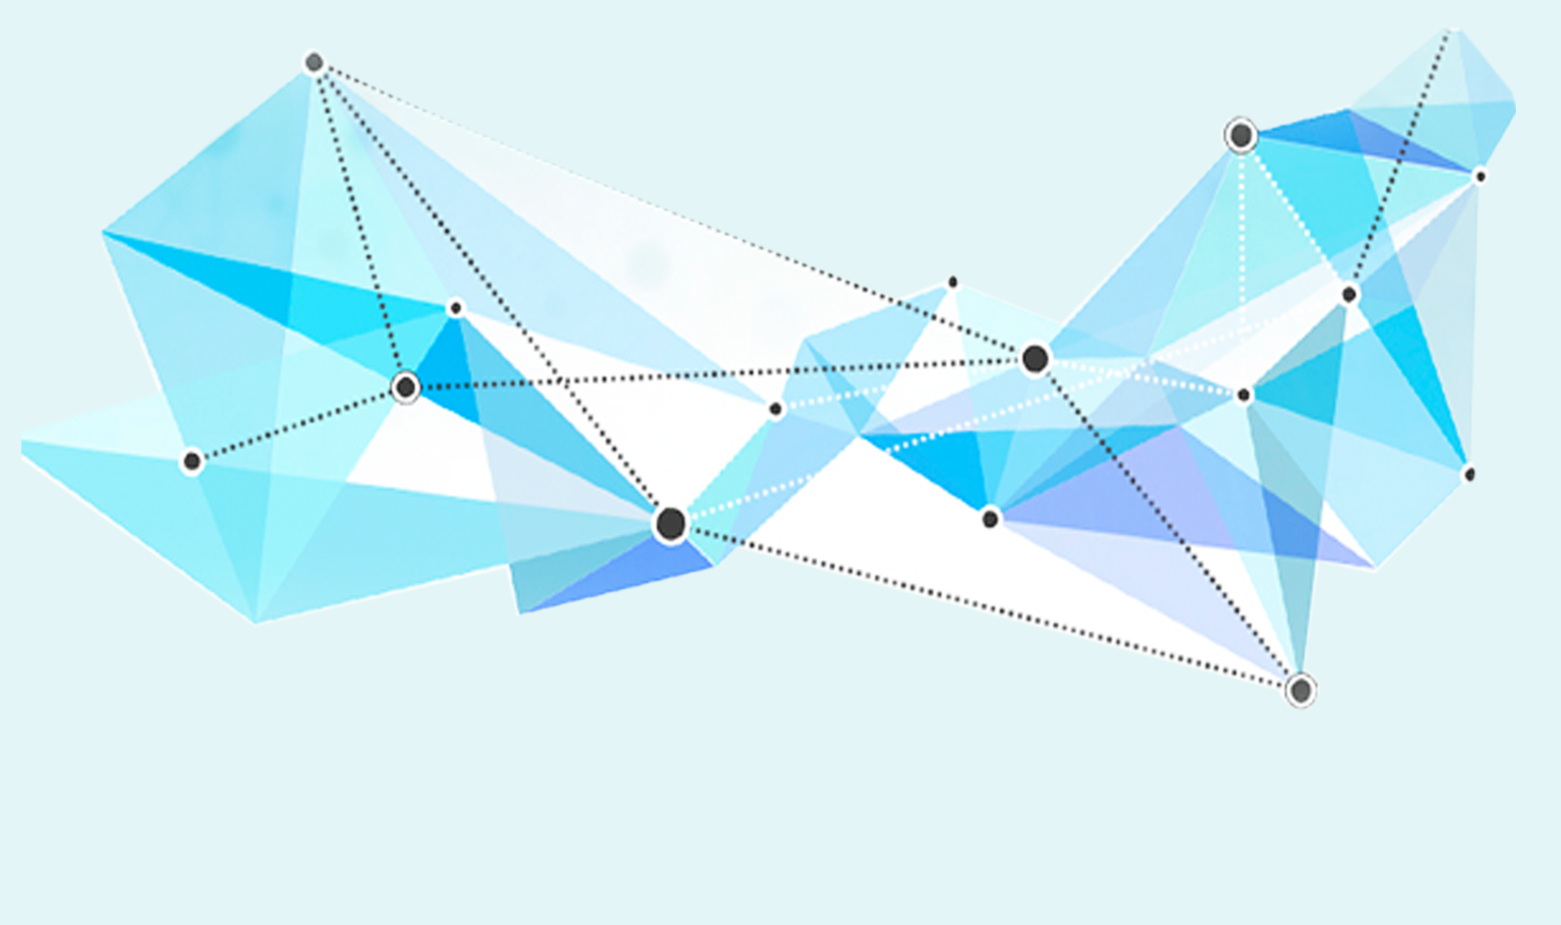
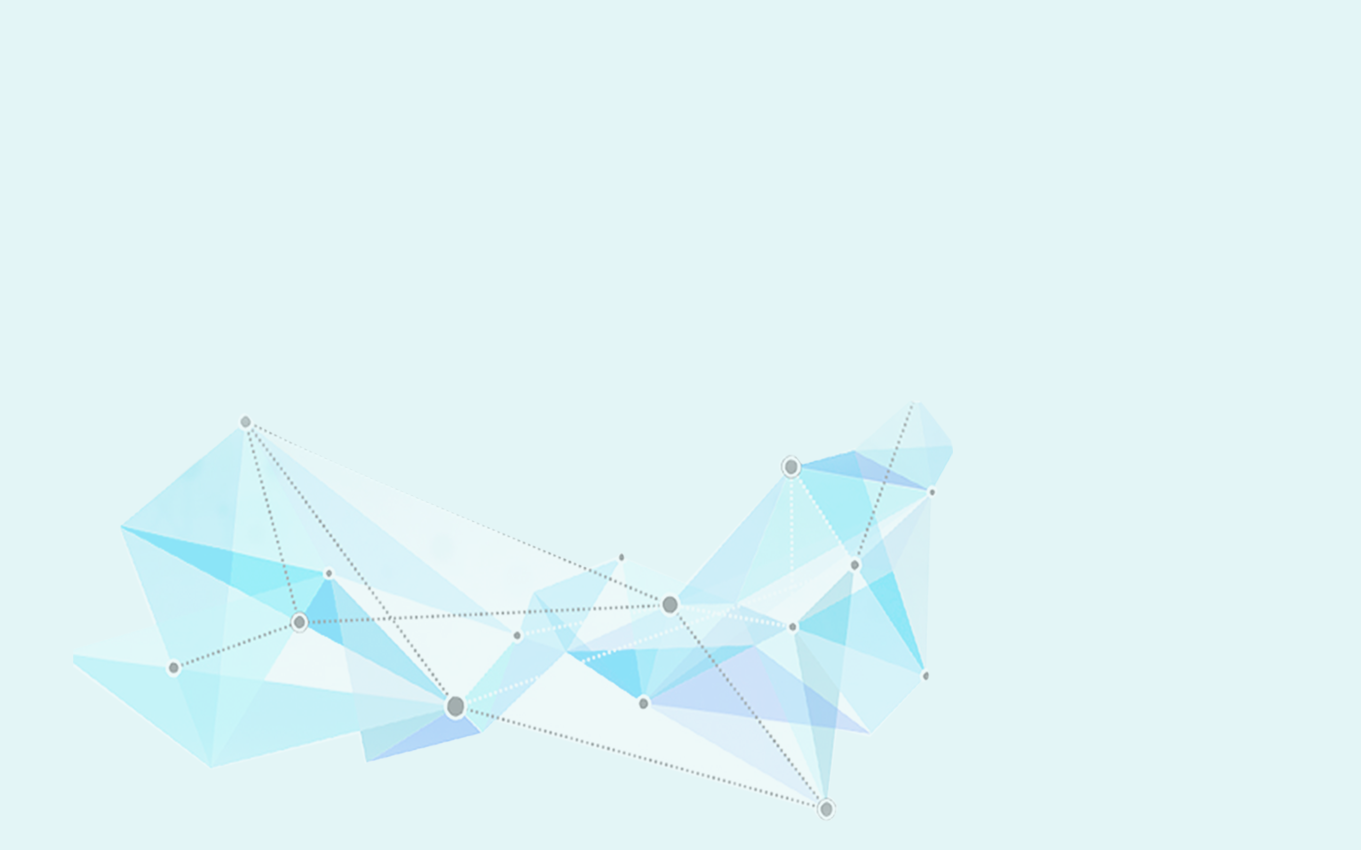
modify background

diff --git a/src/components/MainPage/MainHeader.js b/src/components/MainPage/MainHeader.js
@@ -3,6 +3,7 @@ import { Link } from "react-router";
 import Logo from "../../img/logo.png";
 import Faceicon from "../../img/facebook-icon.png";
 import Twittter from "../../img/twitter-icon.png";
+import home from "../../img/menu.png";
 import './main.css'
 
 class MainHeader extends React.Component {
@@ -10,8 +11,10 @@ class MainHeader extends React.Component {
          return (
          <div className="mainheader">
             <div className="logo">
-                <Link to="main"><img src={Logo}/> </Link>
+                <Link to="/"><img src={Logo}/> </Link>
+
             </div>
+            <Link to="main"><img className="home" src={home} alt="home"/></Link>
              <div>
                <div className="donate"> Faire un Don </div>
                <a href="https://www.facebook.com/refuhelp.startup?fref=ts"><img className="face" src= {Faceicon}/></a>

diff --git a/src/components/MainPage/main.css b/src/components/MainPage/main.css
@@ -11,6 +11,10 @@
     width: 280px;
     margin-left: 20px;
   }
+  .home {
+    width: 15%;
+    margin-left: 320px;
+  }
 
 .face, .twit{
   width: 50px;
@@ -55,8 +59,7 @@
   text-align: center;
   background-image: url(../../img/ReelBg.png);
   padding-top: 15px;
-  background-size: cover;
-
+  background-size: contain;
 }
 
 

diff --git a/src/components/GuidePages/guide.css b/src/components/GuidePages/guide.css
@@ -1,6 +1,7 @@
 .titling{
   background-color: #83e1fb;
   color: #3e3737;
+  text-align: center;
   height: 50px;
 }
 .titling h3{
